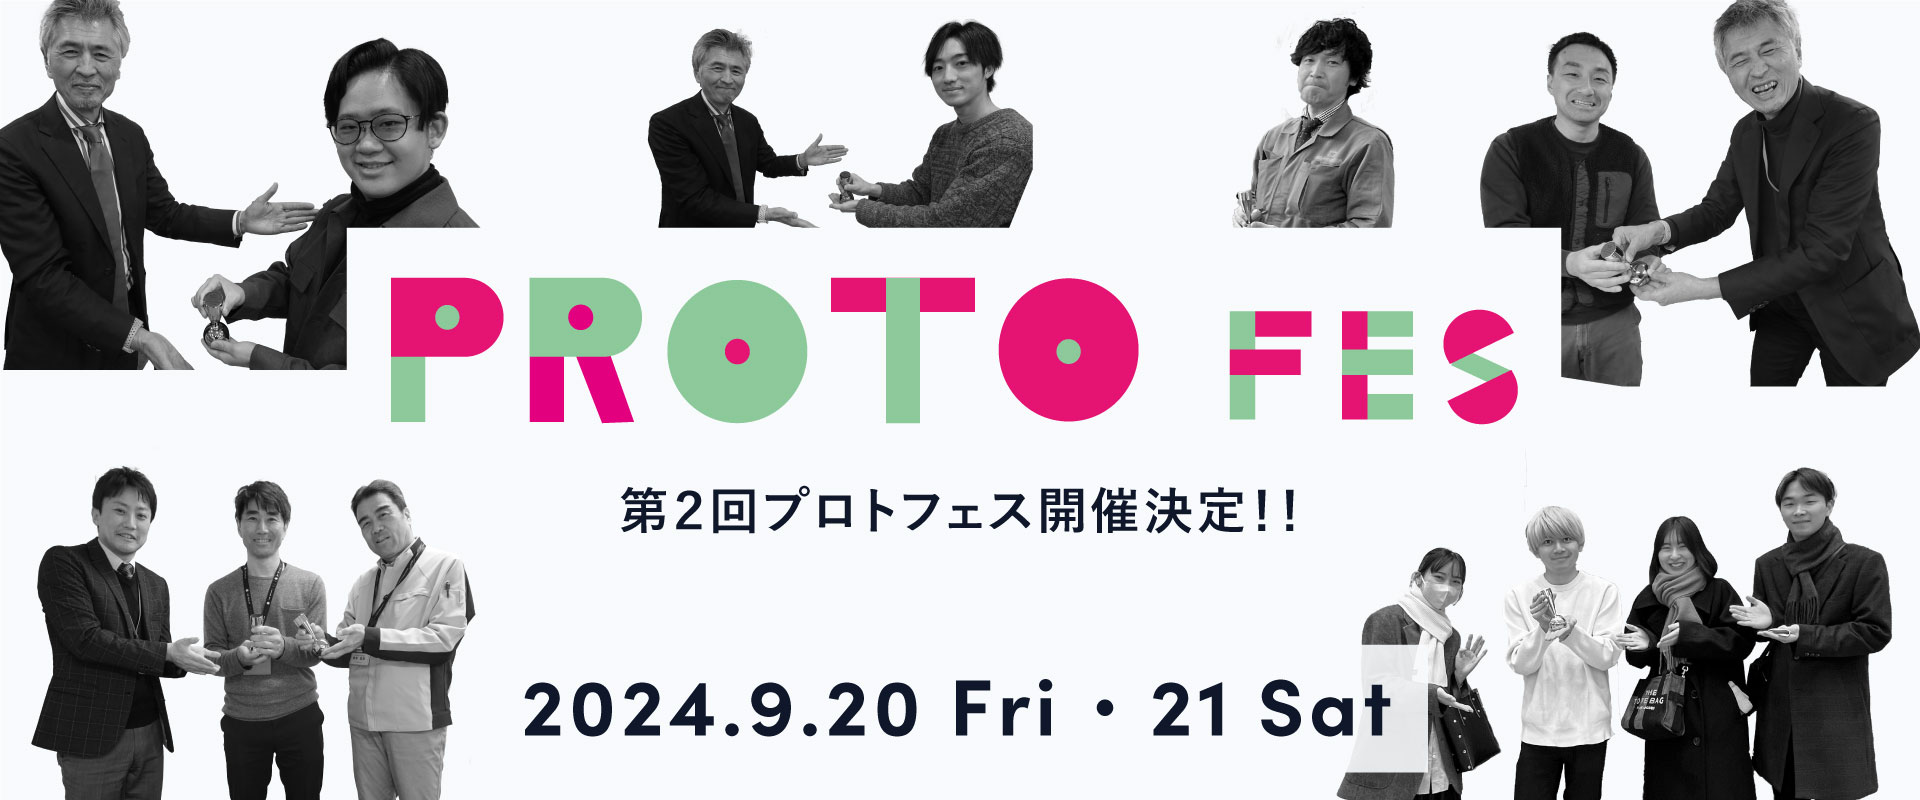
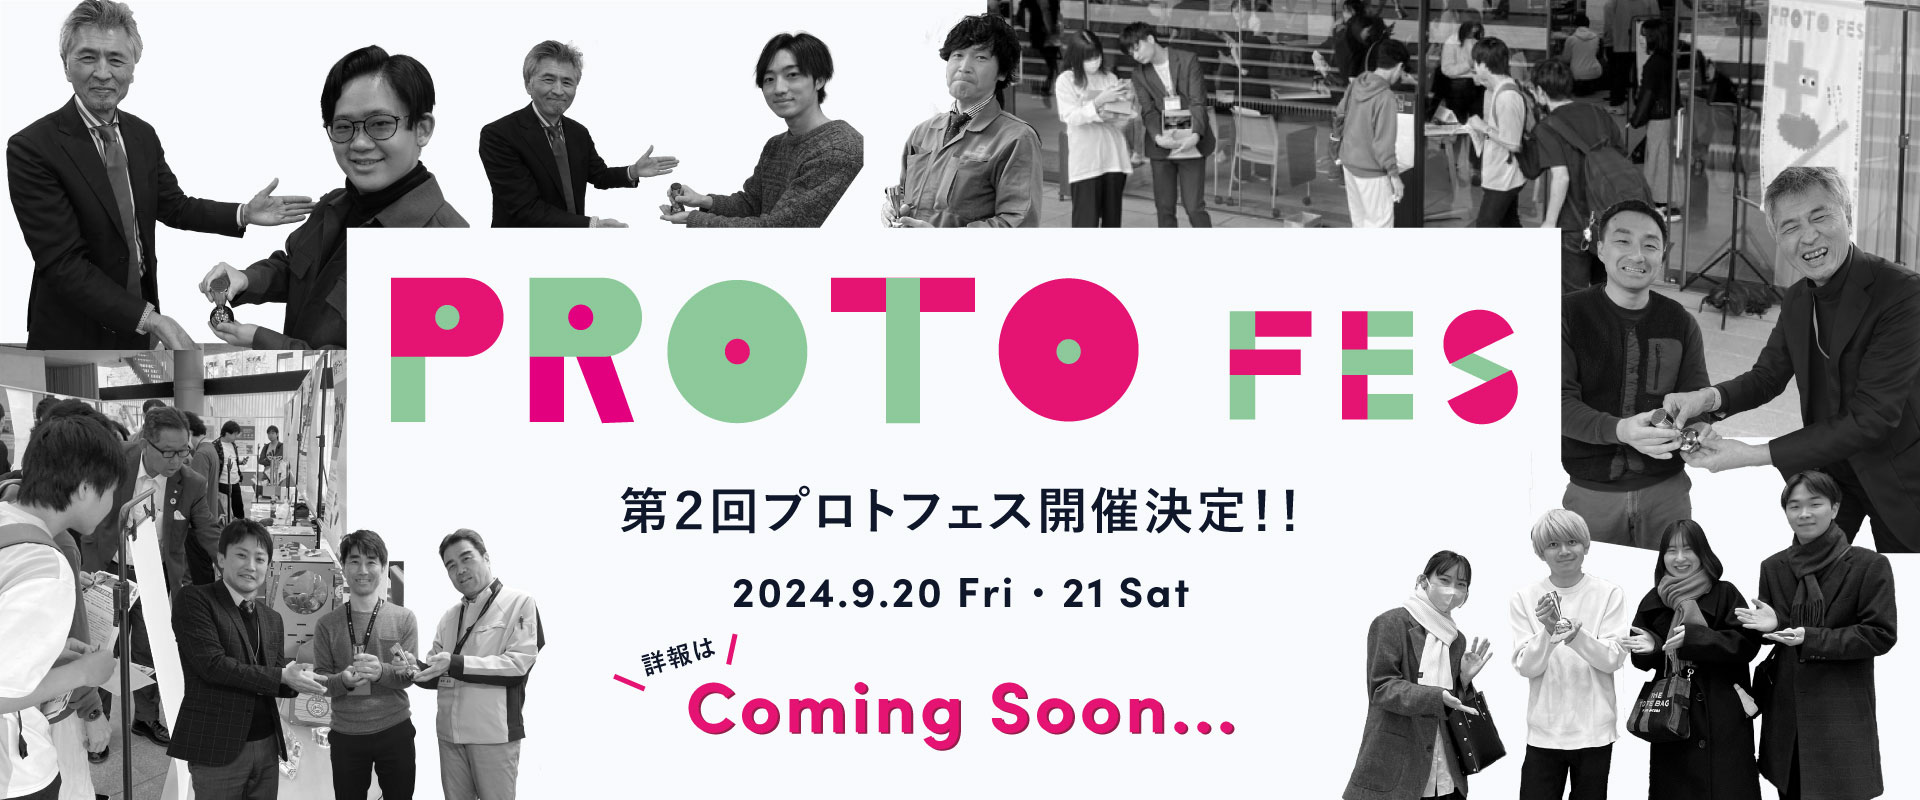
protofes page fix

diff --git a/index.html b/index.html
@@ -179,8 +179,8 @@
       <div class="w-full md:w-11/12 lg:w-8/12 mx-auto py-12 md:py-24">
         <h2 class="title tracking-wide">Protofes</h2>
         <div class="w-full mx-auto">
-          <a href="news_protfes.html">
-          <img class="object-cover" src="images/protfes/protfes_banner03.jpg" alt="">
+          <a class="hover:opacity-80" href="news_protfes.html">
+          <img class="object-cover" src="images/protfes/protfes_banner02.jpg" alt="">
           </a>
         </div>
         <div class="w-full py-8 mx-auto aspect-video video">
